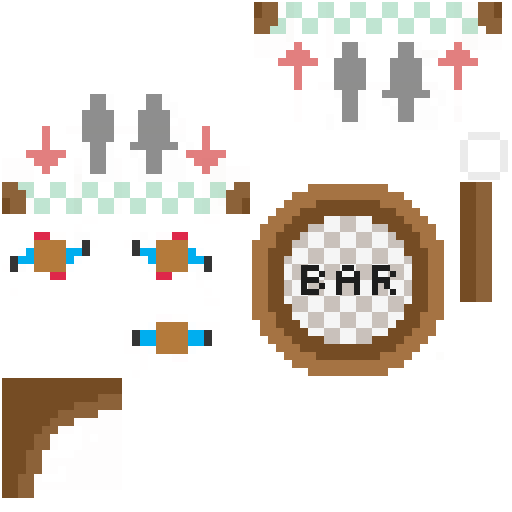
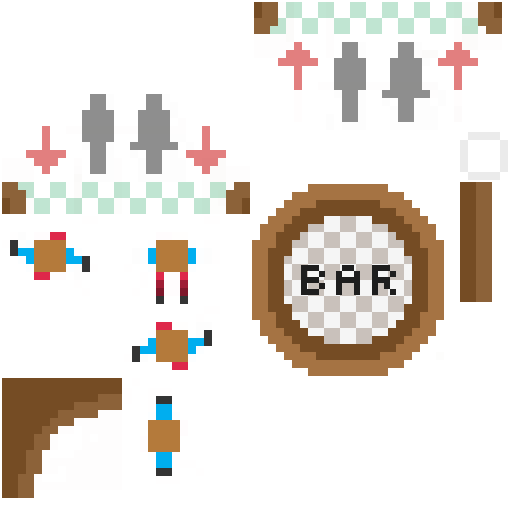
sbentity suddenly crapped out on me, but i think i fixed it

diff --git a/Assets/Resources/Scripts/Game/SBEntity.cs b/Assets/Resources/Scripts/Game/SBEntity.cs
@@ -8,17 +8,17 @@ interface ComponentInterface {
 }
 
 public class SBEntity : FContainer, ComponentInterface {
-	public FContainer rotatingContainer;
-	
 	public bool isBeingControlledBySittableComponent = false;
 	public bool isBeingControlledByDirectionComponent = false;
+	public FContainer rotatingContainer;
 	List<SBAbstractComponent> components;
 	public string name;
+	public int tag = -1;
 	
 	public SBEntity(string name) {
+		this.name = name;
 		rotatingContainer = new FContainer();
 		AddChild(rotatingContainer);
-		this.name = name;
 		components = new List<SBAbstractComponent>();
 	}
 	
@@ -70,33 +70,31 @@ public class SBEntity : FContainer, ComponentInterface {
 		return ComponentForType(ComponentType.Timer) as SBTimerComponent;	
 	}
 	
-	public void HandleComponentRemoved(SBAbstractComponent component) {
-		if (component.componentType == ComponentType.Sprite) {
-			SBSpriteComponent sc = component as SBSpriteComponent;
-			if (sc.shouldBeInRotatingContainer) rotatingContainer.RemoveChild(sc.sprite);
-			else RemoveChild(sc.sprite);
-		}
-		
-		else if (component.componentType == ComponentType.ProgressBar) {
-			SBProgressBarComponent pbc = component as SBProgressBarComponent;
-			RemoveChild(pbc.progressBar);
-		}
-	}
-	
-	virtual public void HandleUpdate() {
-		foreach (SBAbstractComponent component in components) component.HandleUpdate();
-	}
-	
 	public void HandleComponentAdded(SBAbstractComponent component) {
 		if (component.componentType == ComponentType.Sprite) {
 			SBSpriteComponent sc = component as SBSpriteComponent;
 			if (sc.shouldBeInRotatingContainer) rotatingContainer.AddChild(sc.sprite);
 			else AddChild(sc.sprite);
 		}
-		
 		else if (component.componentType == ComponentType.ProgressBar) {
 			SBProgressBarComponent pbc = component as SBProgressBarComponent;
-			AddChild(pbc.progressBar);
+			AddChild(pbc.progressBar);	
 		}
+	}
+	
+	public void HandleComponentRemoved(SBAbstractComponent component) {
+		if (component.componentType == ComponentType.Sprite) {
+			SBSpriteComponent sc = component as SBSpriteComponent;
+			if (sc.shouldBeInRotatingContainer) rotatingContainer.RemoveChild(sc.sprite);
+			else RemoveChild(sc.sprite);
+		}
+		else if (component.componentType == ComponentType.ProgressBar) {
+			SBProgressBarComponent pbc = component as SBProgressBarComponent;
+			RemoveChild(pbc.progressBar);	
+		}
+	}
+	
+	virtual public void HandleUpdate() {
+		foreach (SBAbstractComponent component in components) component.HandleUpdate();
 	}
 }

diff --git a/Assets/Resources/Scripts/Game/SBBarStool.cs b/Assets/Resources/Scripts/Game/SBBarStool.cs
@@ -2,8 +2,6 @@ using UnityEngine;
 using System.Collections;
 
 public class SBBarStool : SBEntity {	
-	SBTimerComponent drinkWaitTimer;
-	
 	public SBBarStool(string name, Color color) : base(name) {
 		this.name = name;
 		SBSpriteComponent sc = new SBSpriteComponent("barStool.psd", false);
@@ -11,8 +9,7 @@ public class SBBarStool : SBEntity {
 		sc.sprite.color = color;
 		AddComponent(sc);
 		AddComponent(new SBSittableComponent());
-		drinkWaitTimer = new SBTimerComponent();
-		AddComponent(drinkWaitTimer);
+		AddComponent(new SBTimerComponent());
 		AddComponent(new SBProgressBarComponent(0, 0, 65f, 10f, Color.green, ProgressBarType.FillLeftToRight));
 	}
 	
@@ -21,8 +18,10 @@ public class SBBarStool : SBEntity {
 	}
 	
 	override public void HandleUpdate() {
-		if (SittableComponent().drinkerIsActuallySitting) {
-			ProgressBarComponent().progressBar.percent = (SBConfig.DRINK_WAIT_TIME - drinkWaitTimer.timer) / SBConfig.DRINK_WAIT_TIME;
+		if (SittableComponent().currentDrinker == null) return;
+		
+		if (SittableComponent().currentDrinker.isActuallySitting) {
+			ProgressBarComponent().progressBar.percent = (2.0f - TimerComponent().timer) / 2.0f;
 		}
 	}
 }

diff --git a/Assets/Resources/Scripts/Components/SBSittableComponent.cs b/Assets/Resources/Scripts/Components/SBSittableComponent.cs
@@ -3,7 +3,6 @@ using System.Collections;
 
 public class SBSittableComponent : SBAbstractComponent {
 	public SBDrinker currentDrinker;
-	public bool drinkerIsActuallySitting = false;
 
 	public SBSittableComponent() {
 		name = "sittable component";
@@ -28,15 +27,13 @@ public class SBSittableComponent : SBAbstractComponent {
 		owner.ProgressBarComponent().progressBar.isVisible = true;
 		owner.ProgressBarComponent().progressBar.percent = 1;
 		owner.TimerComponent().Restart();
-		drinkerIsActuallySitting = true;
+		currentDrinker.Sit();
 	}
 	
 	public void EjectDrinker() {
-		drinkerIsActuallySitting = false;
 		owner.ProgressBarComponent().progressBar.isVisible = false;
 		owner.TimerComponent().Stop();
-		currentDrinker.currentSittableComponent = null;
-		currentDrinker.isBeingControlledBySittableComponent = false;
+		currentDrinker.Stand();
 		currentDrinker = null;
 	}
 }

diff --git a/Assets/Resources/Scripts/Game/SBDrinker.cs b/Assets/Resources/Scripts/Game/SBDrinker.cs
@@ -3,6 +3,7 @@ using System.Collections;
 
 public class SBDrinker : SBEntity {	
 	public SBSittableComponent currentSittableComponent;
+	public bool isActuallySitting = false;
 	public bool hasDrink = false;
 	public bool isWalking = true;
 	
@@ -31,5 +32,18 @@ public class SBDrinker : SBEntity {
 		if (SpriteComponent().frameDuration < SBConfig.DRINKER_MIN_FRAME_DURATION) {
 			SpriteComponent().frameDuration = SBConfig.DRINKER_MIN_FRAME_DURATION;	
 		}
+	}
+	
+	public void Sit() {
+		isActuallySitting = true;
+		SpriteComponent().StopAnimation();
+		SpriteComponent().sprite.element = Futile.atlasManager.GetElementWithName("drinkerSitting.png");
+	}
+	
+	public void Stand() {
+		isActuallySitting = false;
+		currentSittableComponent = null;
+		isBeingControlledBySittableComponent = false;
+		SpriteComponent().RestartAnimation();
 	}
 }

diff --git a/Assets/Resources/Scripts/Game/SBGameScene.cs b/Assets/Resources/Scripts/Game/SBGameScene.cs
@@ -23,6 +23,7 @@ public class SBGameScene : FStage {
 		drinkers = new List<SBEntity>();
 		
 		drinker1 = new SBDrinker("drinker1");
+		drinker1.tag = 1;
 		drinker1.x = 100f;
 		drinker1.y = 100f;
 		drinker1.ProgressBarComponent().progressBar.isVisible = false;
@@ -32,6 +33,7 @@ public class SBGameScene : FStage {
 		AddChild(drinker1);
 
 		drinker2 = new SBDrinker("drinker2");
+		drinker2.tag = 2;
 		drinker2.x = Futile.screen.width - 100f;
 		drinker2.y = Futile.screen.height - SBConfig.TOP_UI_HEIGHT - 100f;
 		drinker2.ProgressBarComponent().progressBar.isVisible = false;

diff --git a/Assets/Resources/Scripts/Components/SBTimerComponent.cs b/Assets/Resources/Scripts/Components/SBTimerComponent.cs
@@ -31,7 +31,8 @@ public class SBTimerComponent : SBAbstractComponent {
 		Futile.instance.SignalUpdate -= HandleUpdate;
 	}
 	
-	public void HandleUpdate() {
+	override public void HandleUpdate() {
+		base.HandleUpdate();
 		timer_ += Time.fixedDeltaTime;
 	}
 	

diff --git a/Assets/Resources/Scripts/Components/SBSpriteComponent.cs b/Assets/Resources/Scripts/Components/SBSpriteComponent.cs
@@ -84,6 +84,7 @@ public class SBSpriteComponent : SBAbstractComponent {
 	}
 	
 	override public void HandleUpdate() {
+		if (owner.tag == 1) Debug.Log(isAnimating);
 		if (!isAnimating) return;
 		
 		UpdateAnimation();
